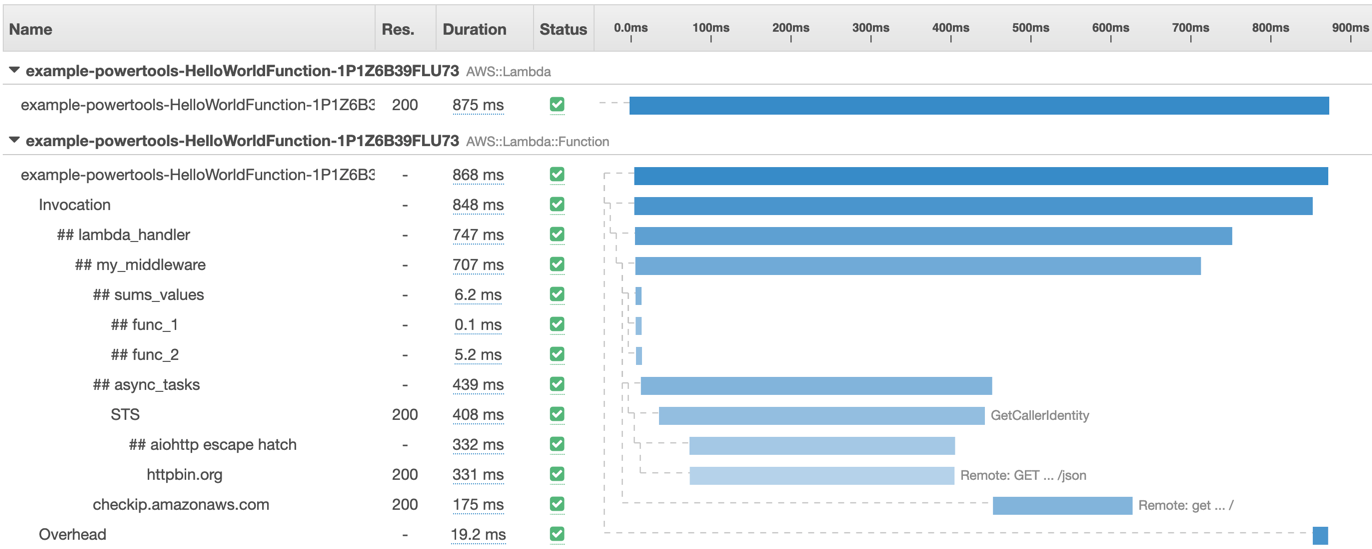
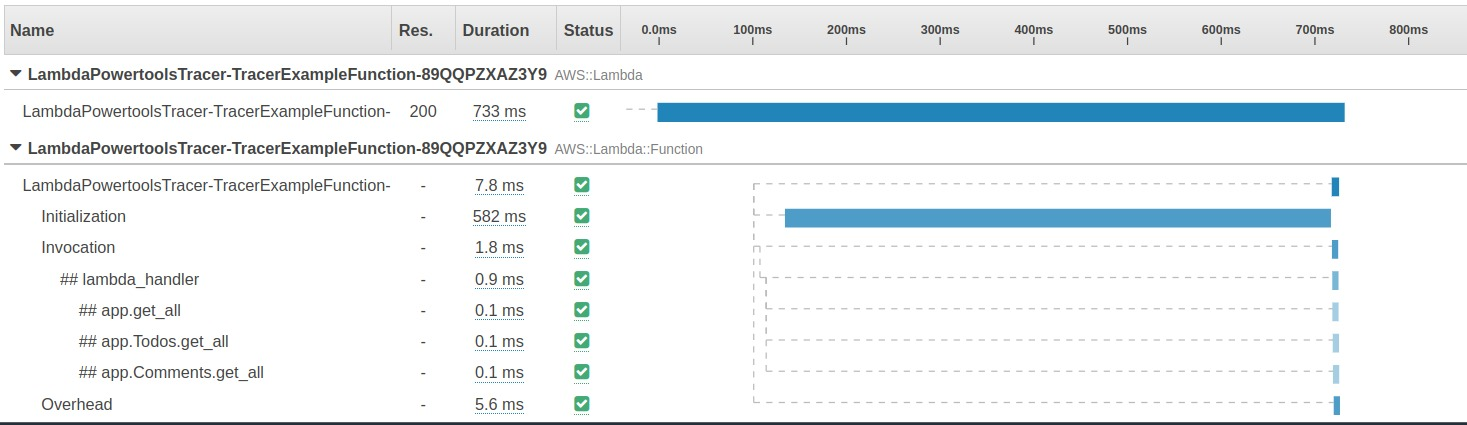
feat(tracer): support methods with the same name (ABCs) by including fully qualified name in v2 (#1486)

diff --git a/tests/unit/test_tracing.py b/tests/unit/test_tracing.py
@@ -10,6 +10,8 @@ from aws_lambda_powertools import Tracer
 
 # Maintenance: This should move to Functional tests and use Fake over mocks.
 
+MODULE_PREFIX = "unit.test_tracing"
+
 
 @pytest.fixture
 def dummy_response():
@@ -125,9 +127,13 @@ def test_tracer_method(mocker, dummy_response, provider_stub, in_subsegment_mock
     # and add its response as trace metadata
     # and use service name as a metadata namespace
     assert in_subsegment_mock.in_subsegment.call_count == 1
-    assert in_subsegment_mock.in_subsegment.call_args == mocker.call(name="## greeting")
+    assert in_subsegment_mock.in_subsegment.call_args == mocker.call(
+        name=f"## {MODULE_PREFIX}.test_tracer_method.<locals>.greeting"
+    )
     assert in_subsegment_mock.put_metadata.call_args == mocker.call(
-        key="greeting response", value=dummy_response, namespace="booking"
+        key=f"{MODULE_PREFIX}.test_tracer_method.<locals>.greeting response",
+        value=dummy_response,
+        namespace="booking",
     )
 
 
@@ -253,7 +259,10 @@ def test_tracer_method_exception_metadata(mocker, provider_stub, in_subsegment_m
     # THEN we should add the exception using method name as key plus error
     # and their service name as the namespace
     put_metadata_mock_args = in_subsegment_mock.put_metadata.call_args[1]
-    assert put_metadata_mock_args["key"] == "greeting error"
+    assert (
+        put_metadata_mock_args["key"]
+        == f"{MODULE_PREFIX}.test_tracer_method_exception_metadata.<locals>.greeting error"
+    )
     assert put_metadata_mock_args["namespace"] == "booking"
 
 
@@ -305,15 +314,23 @@ async def test_tracer_method_nested_async(mocker, dummy_response, provider_stub,
 
     # THEN we should add metadata for each response like we would for a sync decorated method
     assert in_subsegment_mock.in_subsegment.call_count == 2
-    assert in_subsegment_greeting_call_args == mocker.call(name="## greeting")
-    assert in_subsegment_greeting2_call_args == mocker.call(name="## greeting_2")
+    assert in_subsegment_greeting_call_args == mocker.call(
+        name=f"## {MODULE_PREFIX}.test_tracer_method_nested_async.<locals>.greeting"
+    )
+    assert in_subsegment_greeting2_call_args == mocker.call(
+        name=f"## {MODULE_PREFIX}.test_tracer_method_nested_async.<locals>.greeting_2"
+    )
 
     assert in_subsegment_mock.put_metadata.call_count == 2
     assert put_metadata_greeting2_call_args == mocker.call(
-        key="greeting_2 response", value=dummy_response, namespace="booking"
+        key=f"{MODULE_PREFIX}.test_tracer_method_nested_async.<locals>.greeting_2 response",
+        value=dummy_response,
+        namespace="booking",
     )
     assert put_metadata_greeting_call_args == mocker.call(
-        key="greeting response", value=dummy_response, namespace="booking"
+        key=f"{MODULE_PREFIX}.test_tracer_method_nested_async.<locals>.greeting response",
+        value=dummy_response,
+        namespace="booking",
     )
 
 
@@ -355,7 +372,10 @@ async def test_tracer_method_exception_metadata_async(mocker, provider_stub, in_
     # THEN we should add the exception using method name as key plus error
     # and their service name as the namespace
     put_metadata_mock_args = in_subsegment_mock.put_metadata.call_args[1]
-    assert put_metadata_mock_args["key"] == "greeting error"
+    assert (
+        put_metadata_mock_args["key"]
+        == f"{MODULE_PREFIX}.test_tracer_method_exception_metadata_async.<locals>.greeting error"
+    )
     assert put_metadata_mock_args["namespace"] == "booking"
 
 
@@ -387,7 +407,9 @@ def test_tracer_yield_from_context_manager(mocker, provider_stub, in_subsegment_
     assert "test result" in in_subsegment_mock.put_metadata.call_args[1]["value"]
     assert in_subsegment_mock.in_subsegment.call_count == 2
     assert handler_trace == mocker.call(name="## handler")
-    assert yield_function_trace == mocker.call(name="## yield_with_capture")
+    assert yield_function_trace == mocker.call(
+        name=f"## {MODULE_PREFIX}.test_tracer_yield_from_context_manager.<locals>.yield_with_capture"
+    )
     assert "test result" in result
 
 
@@ -411,7 +433,10 @@ def test_tracer_yield_from_context_manager_exception_metadata(mocker, provider_s
     # THEN we should add the exception using method name as key plus error
     # and their service name as the namespace
     put_metadata_mock_args = in_subsegment_mock.put_metadata.call_args[1]
-    assert put_metadata_mock_args["key"] == "yield_with_capture error"
+    assert (
+        put_metadata_mock_args["key"]
+        == f"{MODULE_PREFIX}.test_tracer_yield_from_context_manager_exception_metadata.<locals>.yield_with_capture error"  # noqa E501
+    )
     assert isinstance(put_metadata_mock_args["value"], ValueError)
     assert put_metadata_mock_args["namespace"] == "booking"
 
@@ -453,7 +478,9 @@ def test_tracer_yield_from_nested_context_manager(mocker, provider_stub, in_subs
     assert "test result" in in_subsegment_mock.put_metadata.call_args[1]["value"]
     assert in_subsegment_mock.in_subsegment.call_count == 2
     assert handler_trace == mocker.call(name="## handler")
-    assert yield_function_trace == mocker.call(name="## yield_with_capture")
+    assert yield_function_trace == mocker.call(
+        name=f"## {MODULE_PREFIX}.test_tracer_yield_from_nested_context_manager.<locals>.yield_with_capture"
+    )
     assert "test result" in result
 
 
@@ -483,7 +510,9 @@ def test_tracer_yield_from_generator(mocker, provider_stub, in_subsegment_mock):
     assert "test result" in in_subsegment_mock.put_metadata.call_args[1]["value"]
     assert in_subsegment_mock.in_subsegment.call_count == 2
     assert handler_trace == mocker.call(name="## handler")
-    assert generator_fn_trace == mocker.call(name="## generator_fn")
+    assert generator_fn_trace == mocker.call(
+        name=f"## {MODULE_PREFIX}.test_tracer_yield_from_generator.<locals>.generator_fn"
+    )
     assert "test result" in result
 
 
@@ -506,7 +535,10 @@ def test_tracer_yield_from_generator_exception_metadata(mocker, provider_stub, i
     # THEN we should add the exception using method name as key plus error
     # and their service name as the namespace
     put_metadata_mock_args = in_subsegment_mock.put_metadata.call_args[1]
-    assert put_metadata_mock_args["key"] == "generator_fn error"
+    assert (
+        put_metadata_mock_args["key"]
+        == f"{MODULE_PREFIX}.test_tracer_yield_from_generator_exception_metadata.<locals>.generator_fn error"
+    )
     assert put_metadata_mock_args["namespace"] == "booking"
     assert isinstance(put_metadata_mock_args["value"], ValueError)
     assert str(put_metadata_mock_args["value"]) == "test"

diff --git a/tests/e2e/tracer/test_tracer.py b/tests/e2e/tracer/test_tracer.py
@@ -16,6 +16,16 @@ def basic_handler_fn(infrastructure: dict) -> str:
 
 
 @pytest.fixture
+def same_function_name_fn(infrastructure: dict) -> str:
+    return infrastructure.get("SameFunctionName", "")
+
+
+@pytest.fixture
+def same_function_name_arn(infrastructure: dict) -> str:
+    return infrastructure.get("SameFunctionNameArn", "")
+
+
+@pytest.fixture
 def async_fn_arn(infrastructure: dict) -> str:
     return infrastructure.get("AsyncCaptureArn", "")
 
@@ -31,9 +41,9 @@ def test_lambda_handler_trace_is_visible(basic_handler_fn_arn: str, basic_handle
     handler_subsegment = f"## {handler_name}"
     handler_metadata_key = f"{handler_name} response"
 
-    method_name = basic_handler.get_todos.__name__
+    method_name = f"basic_handler.{basic_handler.get_todos.__name__}"
     method_subsegment = f"## {method_name}"
-    handler_metadata_key = f"{method_name} response"
+    method_metadata_key = f"{method_name} response"
 
     trace_query = data_builder.build_trace_default_query(function_name=basic_handler_fn)
 
@@ -46,14 +56,38 @@ def test_lambda_handler_trace_is_visible(basic_handler_fn_arn: str, basic_handle
 
     assert len(trace.get_annotation(key="ColdStart", value=True)) == 1
     assert len(trace.get_metadata(key=handler_metadata_key, namespace=TracerStack.SERVICE_NAME)) == 2
-    assert len(trace.get_metadata(key=handler_metadata_key, namespace=TracerStack.SERVICE_NAME)) == 2
+    assert len(trace.get_metadata(key=method_metadata_key, namespace=TracerStack.SERVICE_NAME)) == 2
     assert len(trace.get_subsegment(name=handler_subsegment)) == 2
     assert len(trace.get_subsegment(name=method_subsegment)) == 2
 
 
+def test_lambda_handler_trace_multiple_functions_same_name(same_function_name_arn: str, same_function_name_fn: str):
+    # GIVEN
+    method_name_todos = "same_function_name.Todos.get_all"
+    method_subsegment_todos = f"## {method_name_todos}"
+    method_metadata_key_todos = f"{method_name_todos} response"
+
+    method_name_comments = "same_function_name.Comments.get_all"
+    method_subsegment_comments = f"## {method_name_comments}"
+    method_metadata_key_comments = f"{method_name_comments} response"
+
+    trace_query = data_builder.build_trace_default_query(function_name=same_function_name_fn)
+
+    # WHEN
+    _, execution_time = data_fetcher.get_lambda_response(lambda_arn=same_function_name_arn)
+
+    # THEN
+    trace = data_fetcher.get_traces(start_date=execution_time, filter_expression=trace_query)
+
+    assert len(trace.get_metadata(key=method_metadata_key_todos, namespace=TracerStack.SERVICE_NAME)) == 1
+    assert len(trace.get_metadata(key=method_metadata_key_comments, namespace=TracerStack.SERVICE_NAME)) == 1
+    assert len(trace.get_subsegment(name=method_subsegment_todos)) == 1
+    assert len(trace.get_subsegment(name=method_subsegment_comments)) == 1
+
+
 def test_async_trace_is_visible(async_fn_arn: str, async_fn: str):
     # GIVEN
-    async_fn_name = async_capture.async_get_users.__name__
+    async_fn_name = f"async_capture.{async_capture.async_get_users.__name__}"
     async_fn_name_subsegment = f"## {async_fn_name}"
     async_fn_name_metadata_key = f"{async_fn_name} response"
 

diff --git a/aws_lambda_powertools/tracing/tracer.py b/aws_lambda_powertools/tracing/tracer.py
@@ -354,7 +354,8 @@ class Tracer:
         """Decorator to create subsegment for arbitrary functions
 
         It also captures both response and exceptions as metadata
-        and creates a subsegment named `## <method_name>`
+        and creates a subsegment named `## <method_module.method_qualifiedname>`
+        # see here: [Qualified name for classes and functions](https://peps.python.org/pep-3155/)
 
         When running [async functions concurrently](https://docs.python.org/3/library/asyncio-task.html#id6),
         methods may impact each others subsegment, and can trigger
@@ -508,7 +509,8 @@ class Tracer:
                 functools.partial(self.capture_method, capture_response=capture_response, capture_error=capture_error),
             )
 
-        method_name = f"{method.__name__}"
+        # Example: app.ClassA.get_all  # noqa E800
+        method_name = f"{method.__module__}.{method.__qualname__}"
 
         capture_response = resolve_truthy_env_var_choice(
             env=os.getenv(constants.TRACER_CAPTURE_RESPONSE_ENV, "true"), choice=capture_response

diff --git a/tests/e2e/tracer/handlers/same_function_name.py b/tests/e2e/tracer/handlers/same_function_name.py
@@ -1,0 +1,33 @@
+from abc import ABC, abstractmethod
+from uuid import uuid4
+
+from aws_lambda_powertools import Tracer
+from aws_lambda_powertools.utilities.typing import LambdaContext
+
+tracer = Tracer()
+
+
+class MainAbstractClass(ABC):
+    @abstractmethod
+    def get_all(self):
+        raise NotImplementedError
+
+
+class Comments(MainAbstractClass):
+    @tracer.capture_method
+    def get_all(self):
+        return [{"id": f"{uuid4()}", "completed": False} for _ in range(5)]
+
+
+class Todos(MainAbstractClass):
+    @tracer.capture_method
+    def get_all(self):
+        return [{"id": f"{uuid4()}", "completed": False} for _ in range(5)]
+
+
+def lambda_handler(event: dict, context: LambdaContext):
+
+    todos = Todos()
+    comments = Comments()
+
+    return {"todos": todos.get_all(), "comments": comments.get_all()}
